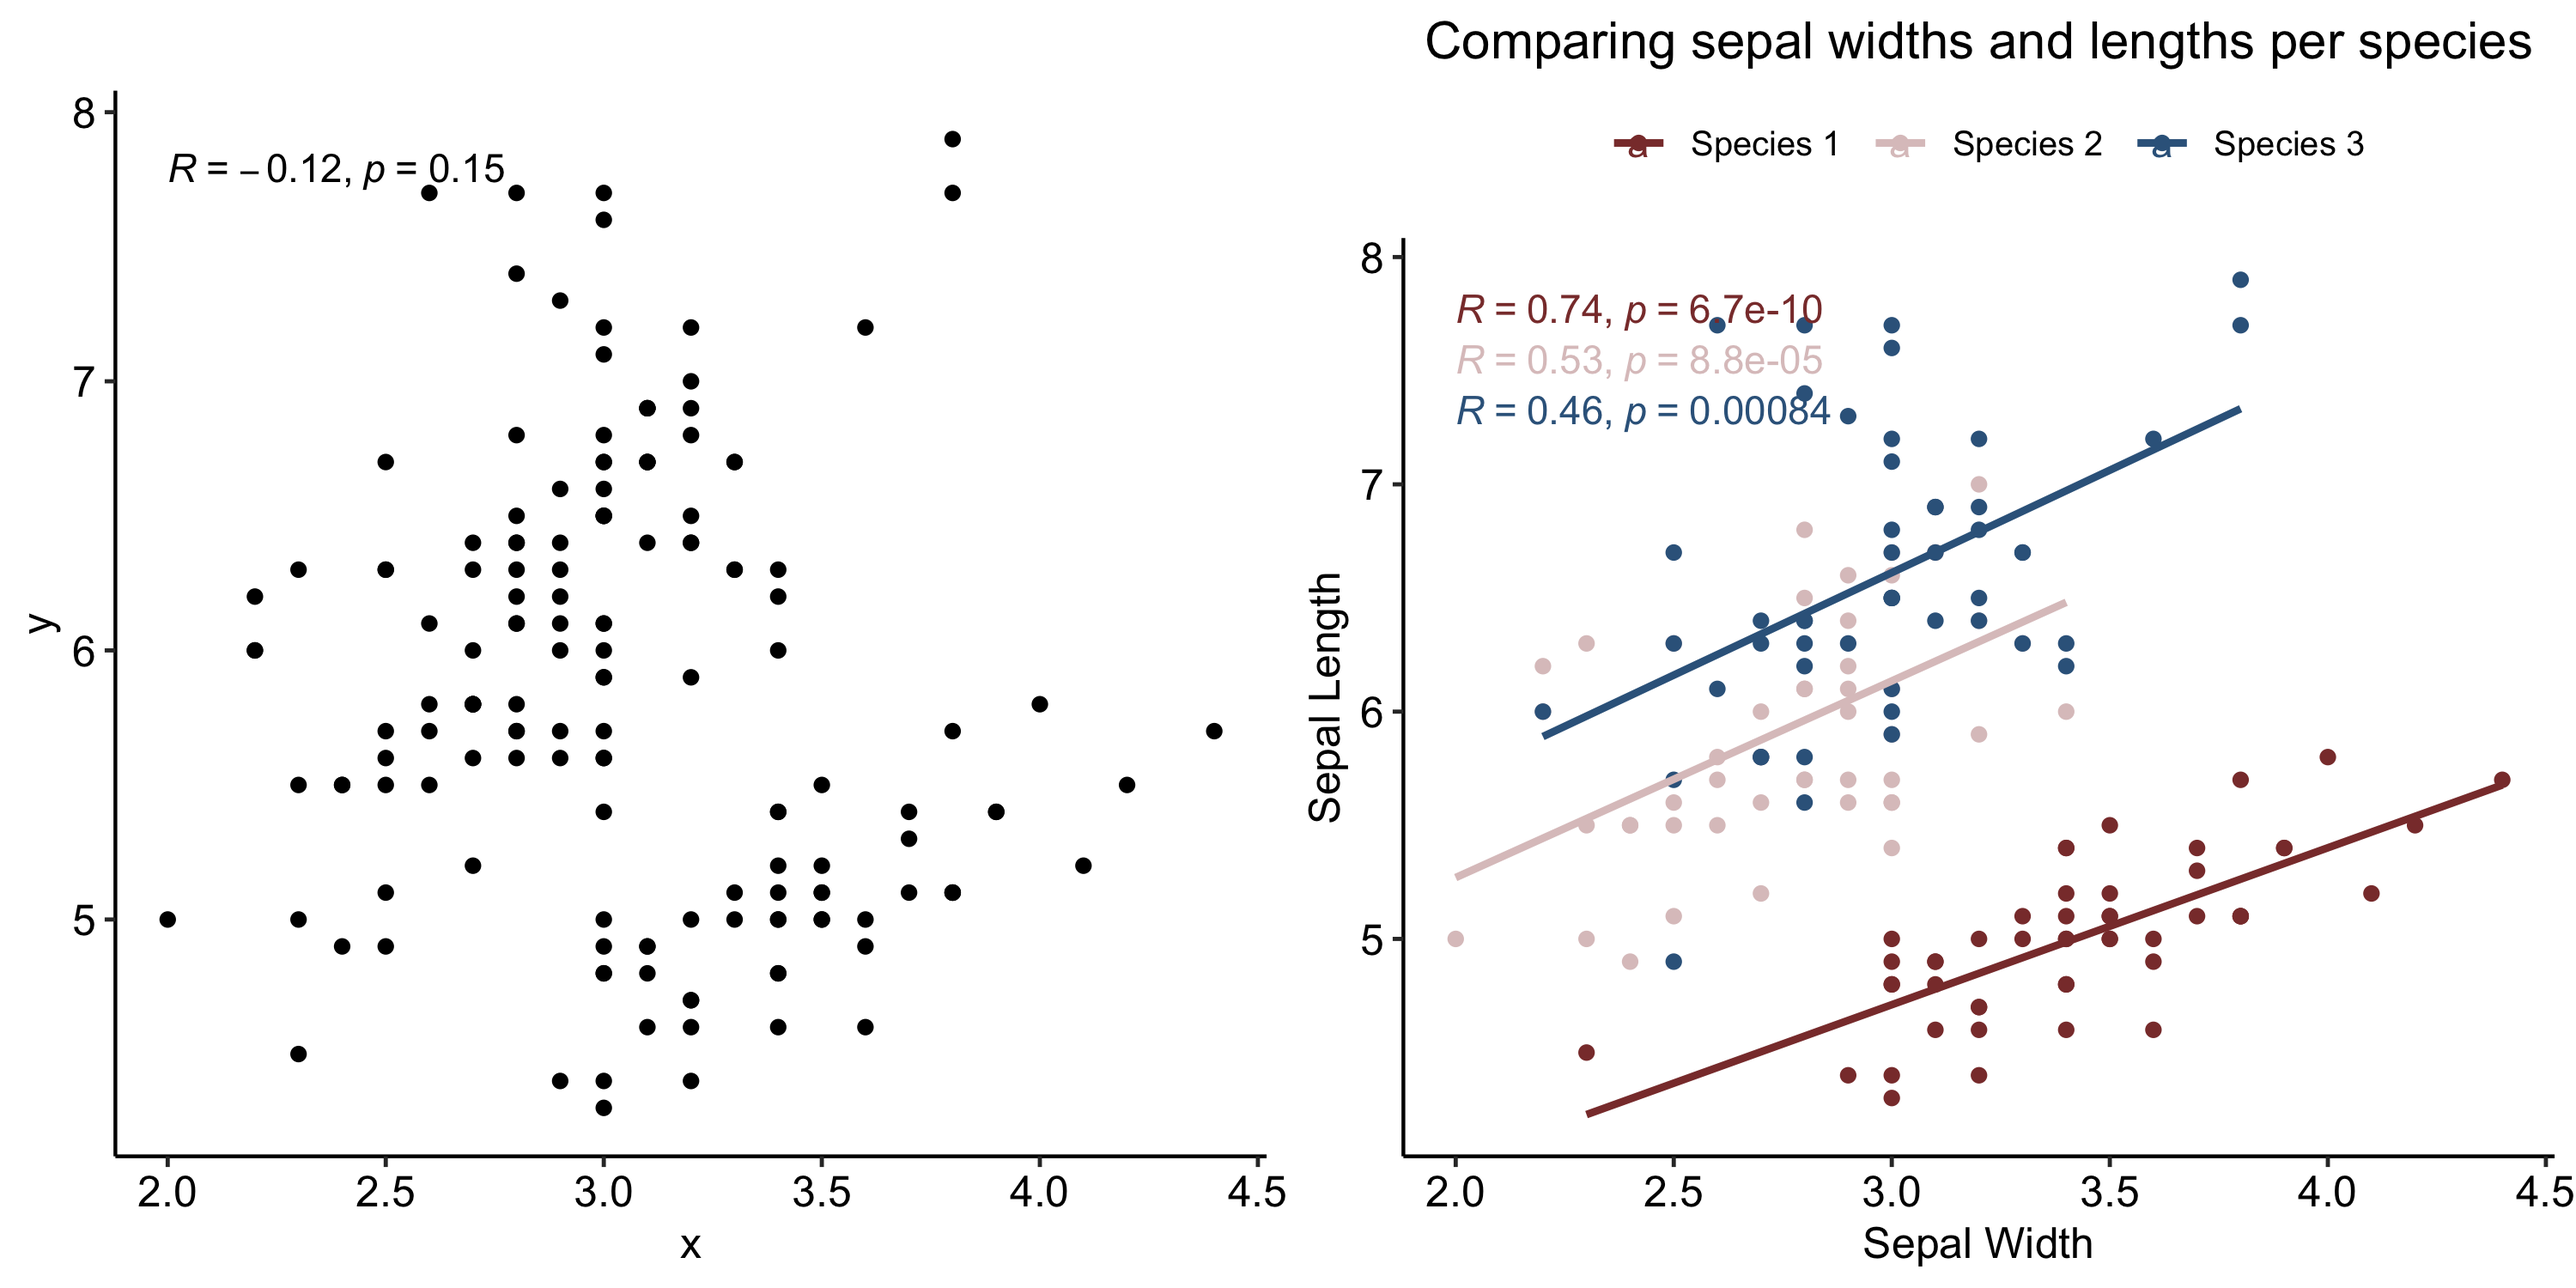
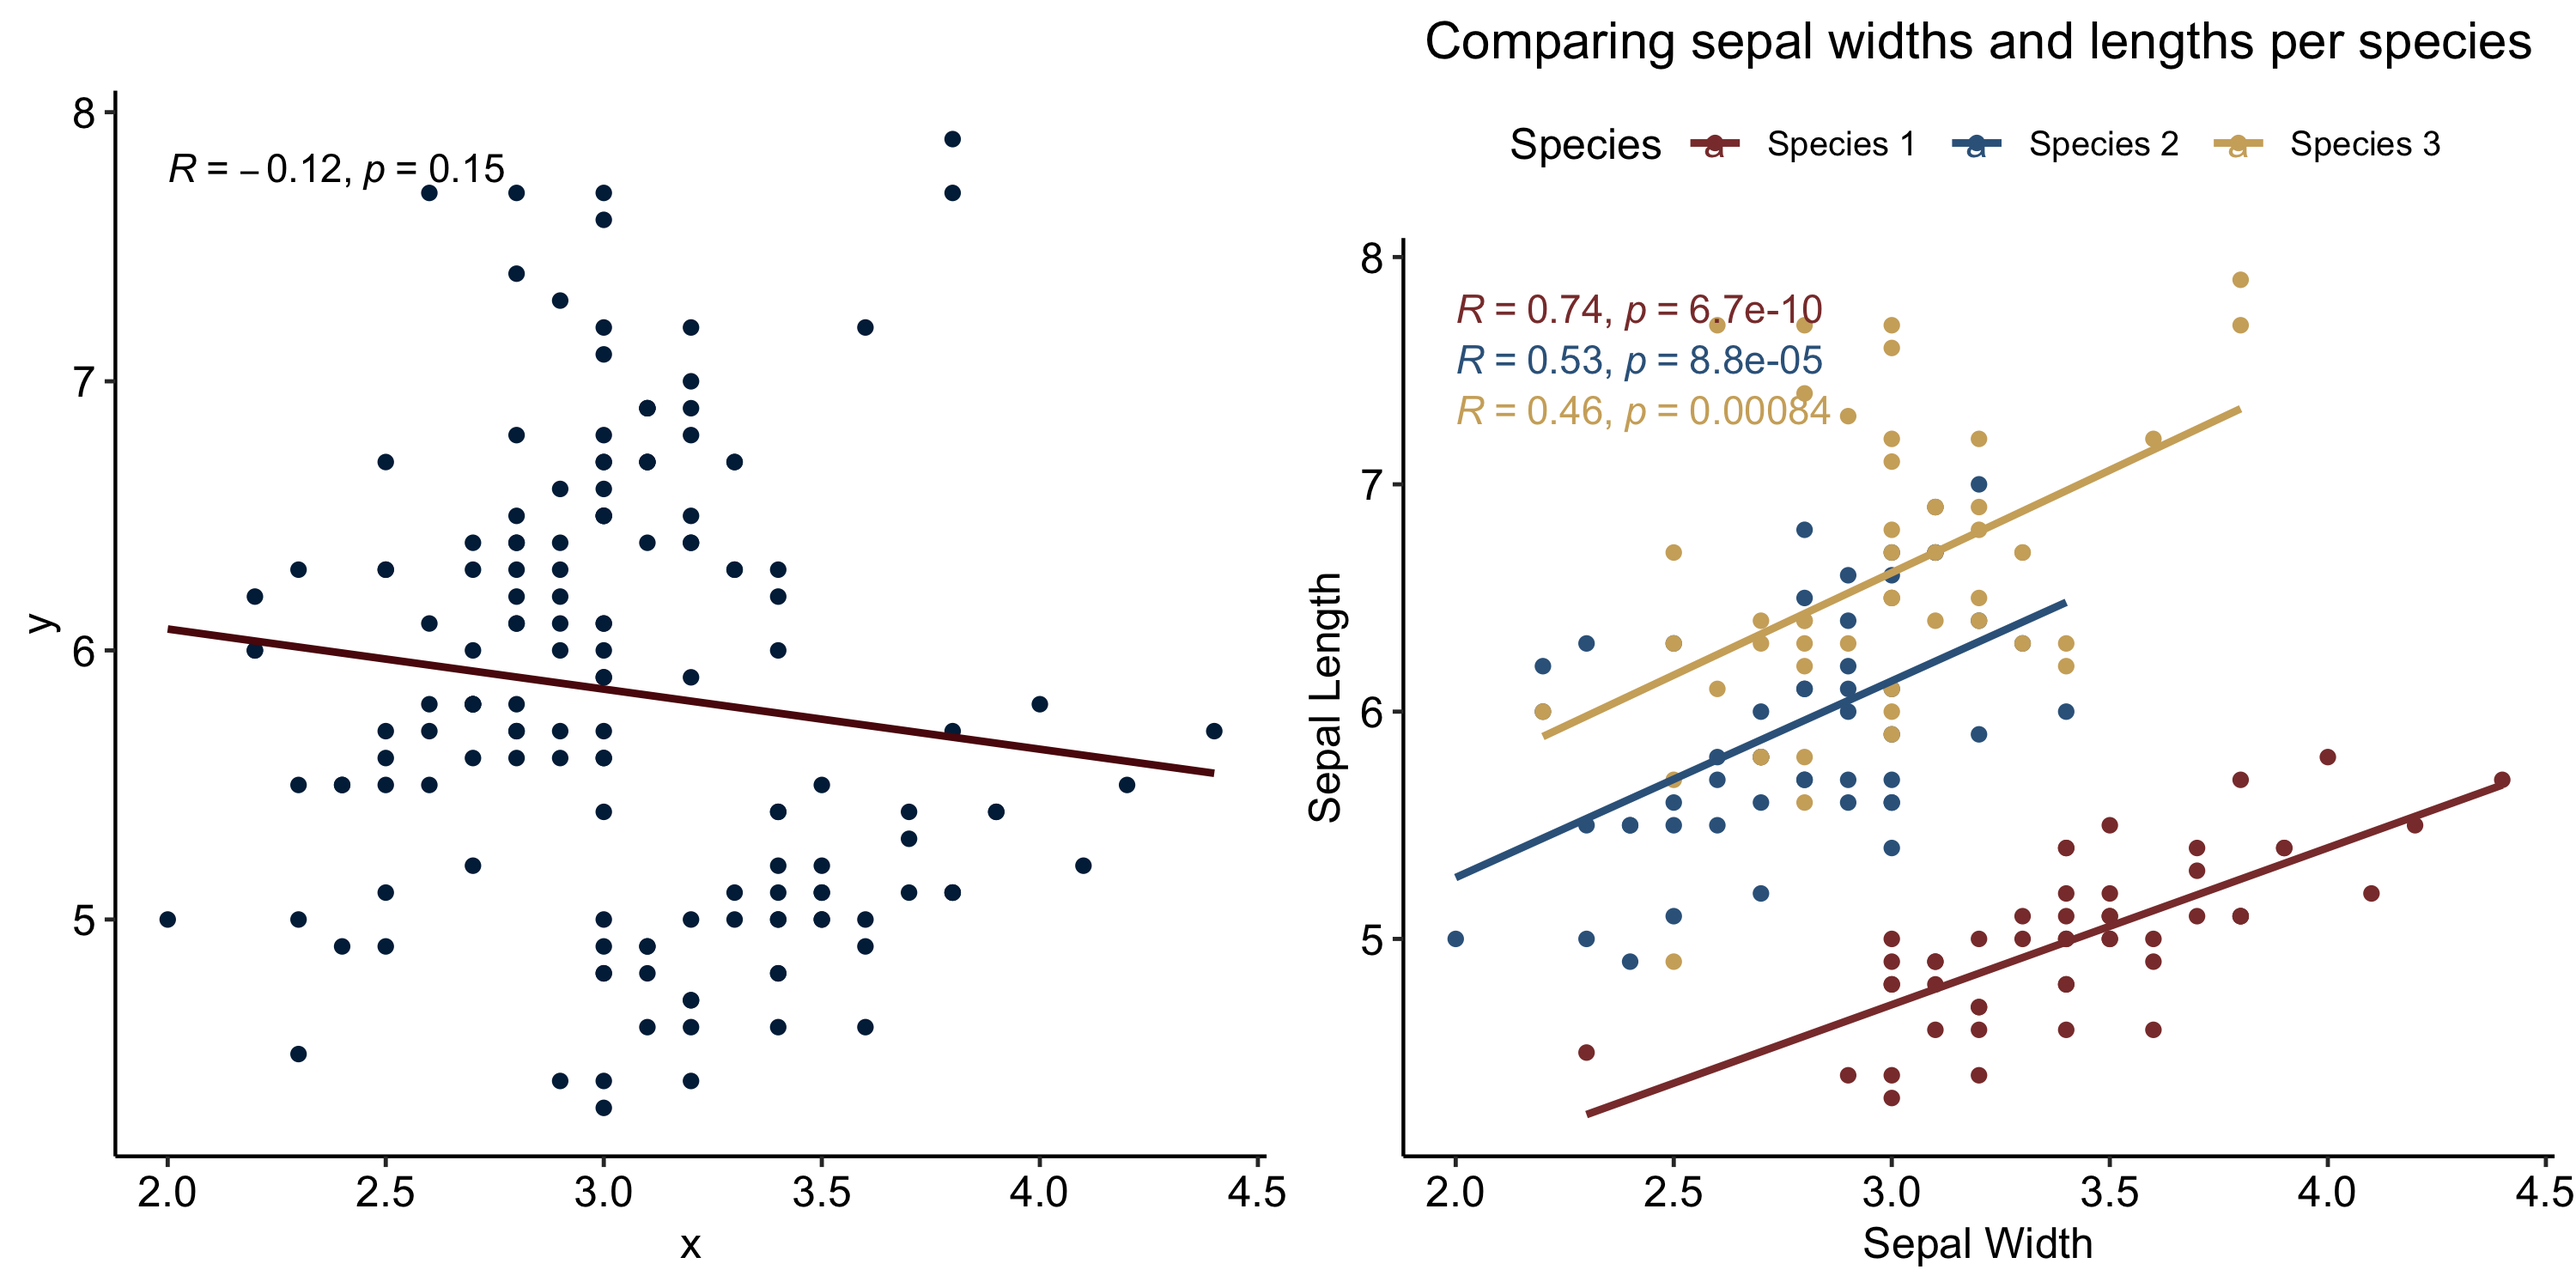
documenting scatterplotter

diff --git a/README.md b/README.md
@@ -242,18 +242,21 @@ specifying `data`, `x_lab` and `y_lab` is sufficient for creating a
 basic plot.
 
 ``` r
-minimal_scatterplot = scatterplotter(iris, "Sepal.Width", "Sepal.Length")
+minimal_scatterplot = scatterplotter(iris, "Sepal.Width", "Sepal.Length",
+                                     linecolor = au_colors("darkred"), 
+                                     pointcolor = au_colors("darkblue"),
+                                     fit = "single")
 
 full_custom_scatterplot = scatterplotter(iris, "Sepal.Width", "Sepal.Length", 
-                                         col_val = "Species", style = "tracerx",
-                                         colors = au_colors(), y_lab = "Sepal Length",
-                                         x_lab = "Sepal Width", 
+                                         col_val = "Species", style = "custom",
+                                         colors = c("trxred", "trxblue", "trxyellow"),
+                                         y_lab = "Sepal Length", x_lab = "Sepal Width", 
                                          title = "Comparing sepal widths and lengths per species", 
-                                         fit = "grouped",
-                                         discrete = TRUE, linecolor = "black", 
-                                         pointcolor = "black", corr_method = "pearson", 
-                                         alternative = "two.sided", fit_method = "glm", 
-                                         se = FALSE, labels = c("Species 1", "Species 2", "Species 3")) 
+                                         fit = "grouped", corr_method = "pearson", 
+                                         alternative = "two.sided", fit_method = "lm",
+                                         se = FALSE, formula = "y ~ x",
+                                         legend_lab = "Species", discrete = TRUE,
+                                         labels = c("Species 1", "Species 2", "Species 3"))
 
 cowplot::plot_grid(minimal_scatterplot, full_custom_scatterplot)
 ```
